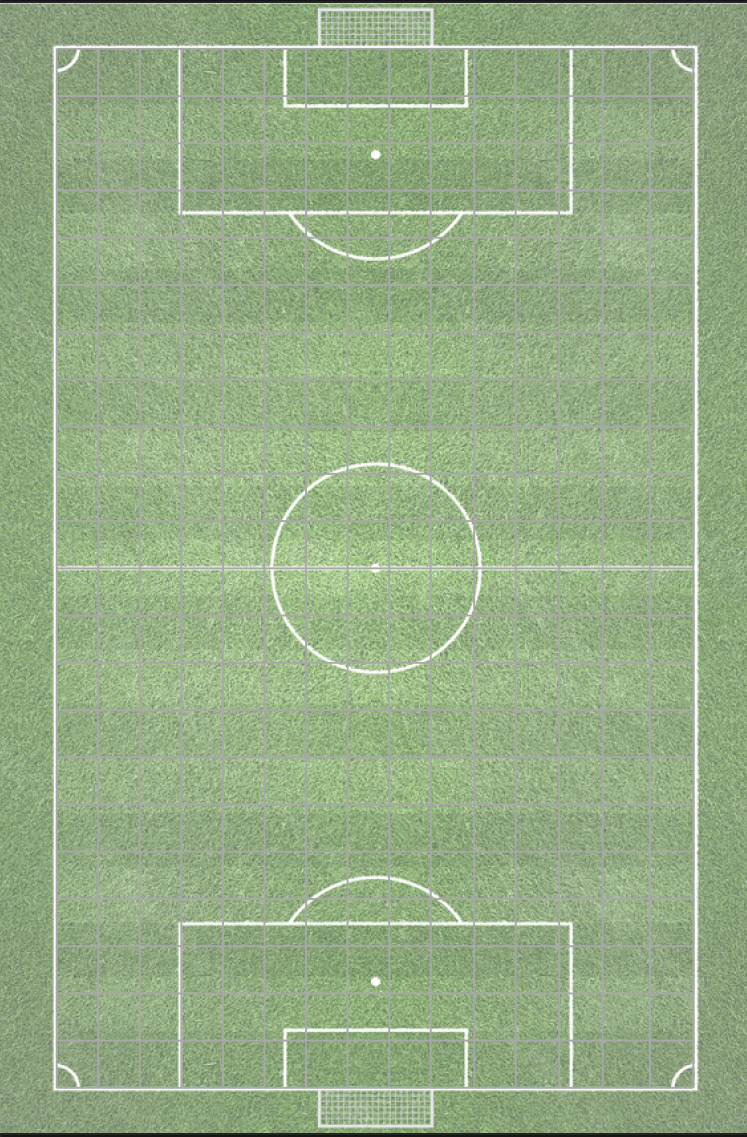
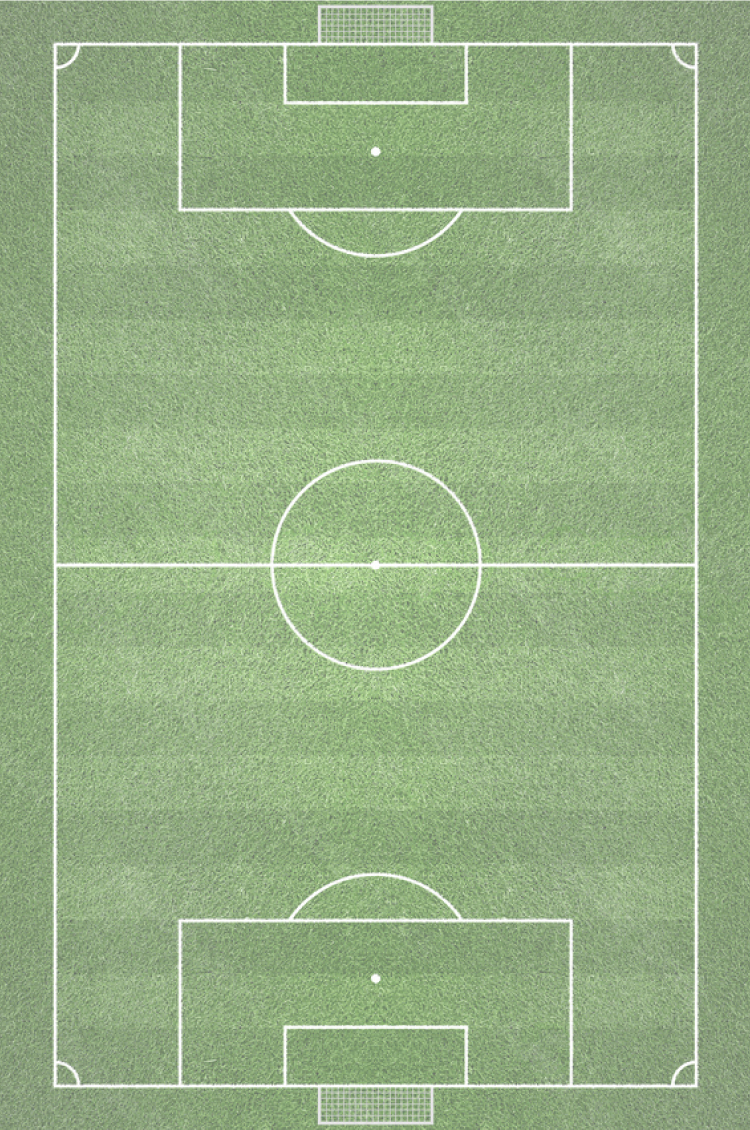
updated tab4 & tab5

diff --git a/app/(tabs)/tab4.tsx b/app/(tabs)/tab4.tsx
@@ -1,4 +1,5 @@
-import { Image, View } from "react-native";
+import { useState } from "react";
+import { Image, TouchableOpacity, View } from "react-native";
 import { SafeAreaView } from "react-native-safe-area-context";
 import {
   topTeam,
@@ -8,33 +9,66 @@ import {
 } from "../../exports/export";
 
 export default function Tab4() {
+  const [selectedIndex, setSelectedIndex] = useState<number | null>(null);
+
+  function renderGoalButton(rowIndex: number, buttonIndex: number) {
+    const index = rowIndex * 11 + buttonIndex;
+
+    return (
+      <TouchableOpacity
+        className={`h-7 w-7 border ${
+          selectedIndex === index ? "bg-red-500" : "border-white"
+        }`}
+        key={index}
+        onPress={() => setSelectedIndex(index)}
+      />
+    );
+  }
+
+  function renderGoalButtonsRow(rowIndex: number) {
+    return (
+      <View className="flex flex-row" key={rowIndex}>
+        {Array.from({ length: 11 }, (_, i) => renderGoalButton(rowIndex, i))}
+      </View>
+    );
+  }
+
   return (
     <>
-      <SafeAreaView>
-        <View className="h-full">
-          <Image
-            source={topTeam}
-            className="h-[10%] w-full"
-            resizeMode="stretch"
-          />
+      <SafeAreaView className="h-full w-full">
+        <View className="h-full w-full flex items-center justify-center bg-primary">
+          <View className="w-full h-[80%]">
+            <Image
+              source={topTeam}
+              className="h-[10%] w-full"
+              resizeMode="stretch"
+            />
 
-          <Image
-            source={goalField}
-            className="h-[70%] w-full"
-            resizeMode="stretch"
-          />
+            <View className="h-[75%] w-full">
+              <Image
+                source={goalField}
+                className="h-full w-full"
+                resizeMode="stretch"
+              />
 
-          <Image
-            source={bottomTeam}
-            className="h-[10%] w-full"
-            resizeMode="stretch"
-          />
+              <View className="absolute h-full w-full inset-y-[4%] inset-x-[7%] flex flex-col">
+                {Array.from({ length: 14 }, (_, i) => renderGoalButtonsRow(i))}
+              </View>
+            </View>
 
-          <Image
-            source={controlBar}
-            className="h-[10%] w-full"
-            resizeMode="stretch"
-          />
+            <Image
+              source={bottomTeam}
+              className="h-[10%] w-full"
+              resizeMode="stretch"
+            />
+          </View>
+          <View className="absolute w-full h-full flex items-end justify-end">
+            <Image
+              source={controlBar}
+              className="h-[10%] w-full"
+              resizeMode="stretch"
+            />
+          </View>
         </View>
       </SafeAreaView>
     </>

diff --git a/app/(tabs)/tab5.tsx b/app/(tabs)/tab5.tsx
@@ -1,28 +1,52 @@
-import { Image, View } from "react-native";
+import { Image, TouchableOpacity, View } from "react-native";
 import { SafeAreaView } from "react-native-safe-area-context";
-import { goalPost, controlBar, goalGrid } from "../../exports/export";
+import { goalPost, controlBar } from "../../exports/export";
+import { useState } from "react";
 
 export default function Tab5() {
+  const [selectedIndex, setSelectedIndex] = useState<number | null>(null);
+
+  function renderGoalPostButton(rowIndex: number, buttonIndex: number) {
+    const index = rowIndex * 4 + buttonIndex;
+
+    return (
+      <TouchableOpacity
+        className={`h-28 w-20 border ${
+          selectedIndex === index ? "bg-red-500" : "border-white"
+        }`}
+        key={index}
+        onPress={() => setSelectedIndex(index)}
+      />
+    );
+  }
+
+  function renderGoalPostButtonsRow(rowIndex: number) {
+    return (
+      <View className="flex flex-row" key={rowIndex}>
+        {Array.from({ length: 4 }, (_, i) => renderGoalPostButton(rowIndex, i))}
+      </View>
+    );
+  }
   return (
     <>
-      <SafeAreaView>
-        <View className="h-full">
-          <Image
-            source={goalPost}
-            className="h-[90%] w-full"
-            resizeMode="stretch"
-          />
-
-          <Image
-            source={controlBar}
-            className="h-[10%] w-full"
-            resizeMode="stretch"
-          />
-
-          <View className="flex absolute h-full w-full top-[295px] left-5">
+      <SafeAreaView className="h-full w-full">
+        <View className="h-full w-full bg-primary flex justify-start items-center">
+          <View className="w-full h-[80%]">
             <Image
-              source={goalGrid}
-              className="w-[325px] h-[225px]"
+              source={goalPost}
+              className="h-full w-full"
+              resizeMode="stretch"
+            />
+
+            <View className="absolute h-full w-full inset-y-[43%] inset-x-[5%] flex flex-col">
+              {Array.from({ length: 2 }, (_, i) => renderGoalPostButtonsRow(i))}
+            </View>
+          </View>
+
+          <View className="h-full w-full absolute items-end justify-end">
+            <Image
+              source={controlBar}
+              className="h-[10%] w-full"
               resizeMode="stretch"
             />
           </View>

diff --git a/exports/export.js b/exports/export.js
@@ -42,12 +42,15 @@ import controlBar from "../assets/images/controlBar.png";
 import topTeam from "../assets/images/topTeam.png";
 import bottomTeam from "../assets/images/bottomTeam.png";
 import goalField from "../assets/images/goalField.png";
+
+//tab5
 import goalPost from "../assets/images/goalPost.png";
-import goalGrid from "../assets/images/goalGrid.png";
 
 export {
   //tab1
   field,
+  team_1,
+  team_2,
   attempt,
   card,
   corner,
@@ -88,8 +91,7 @@ export {
   topTeam,
   bottomTeam,
   goalField,
+
+  //tab5
   goalPost,
-  goalGrid,
-  team_1,
-  team_2,
 };

diff --git a/app/index.tsx b/app/index.tsx
@@ -5,5 +5,5 @@ export default function Index() {
 
   if (!rootNavigationState?.key) return null;
 
-  return <Redirect href={"/tab3"} />;
+  return <Redirect href={"/tab5"} />;
 }
